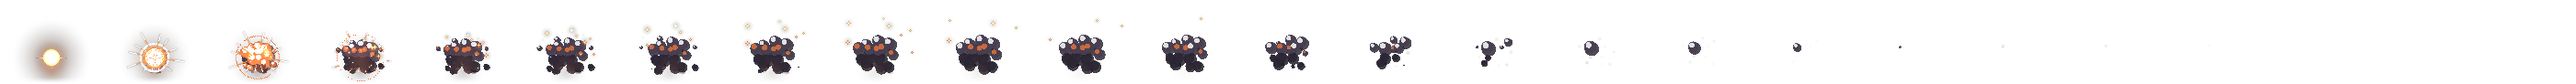
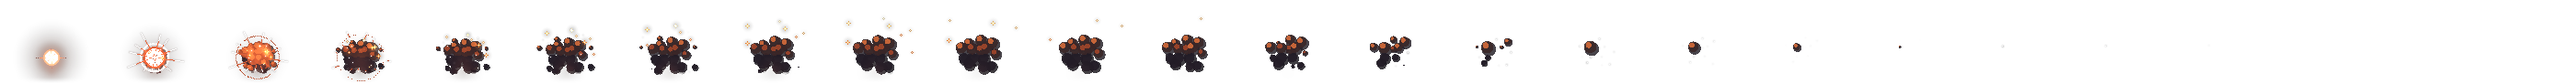
feat: morte do Rei Lodo na versão tinta e brasa (escolha do Victor), bolhas sem brilho branco
Remix do poof do PixelFX em arte/pixelfx/efeitos/poof-tinta.js com a cor do brilho como opção.

Claude-Session: https://claude.ai/code/session_013vLqrTFGaW3XZWyoKxUW4u

diff --git a/arte/pixelfx/efeitos/poof-tinta.js b/arte/pixelfx/efeitos/poof-tinta.js
@@ -1,0 +1,146 @@
+// Remix de spawn/poof do PixelFX (github.com/patch-gg/pixelfx, licença MIT; créditos em ../NOTICE.md).
+// Mudança: o brilho das bolhas usa a opção `highlight` em vez do branco fixo (o Rei Lodo é tinta e brasa).
+// O exportador (../exportar.mjs) copia este arquivo para src/fx/heranca/ do PixelFX antes de renderizar.
+// The soft, top-lit smoke puffs (a body, a denser core, a lit cap) follow Sprite Fusion's open-source explosion
+// (https://www.spritefusion.com/pixel-art-vfx/explosion), MIT License, Copyright (c) 2026 Hugo Duprez.
+import { Particles, Lights, P, Rng, fit, flare, clamp, smooth, ease, TAU, WHITE, hex } from "../../core/index.js";
+
+export const meta = {
+  name: "Poof (tinta e brasa)",
+  desc: "A cartoon death poof: a white pop, a ring of soft round smoke balls bursting out between speed lines, little stars spinning off, and the cloud lifting and thinning away.",
+  tags: ["spawn", "death", "despawn", "smoke", "poof", "cartoon", "one-shot"],
+  size: [112, 92],
+  origin: [56, 80],
+  duration: 1.6,
+  loop: false,
+  fps: 30,
+  bg: "ground",
+  options: {
+    palette: ["#2a2440", "#5e5878", "#9a94b4", "#cdc8e0", "#f2f0fa", "#ffffff"],
+    stars: ["#ffd84a", "#fff3a6", "#ffffff"],
+    seed: 21,
+    highlight: null,
+  },
+};
+
+const CY = -17;
+
+export function create(o) {
+  const C = fit(o.palette, 6), S = fit(o.stars, 3), R = new Rng(o.seed), floor = () => 0;
+  const HL = o.highlight ? hex(o.highlight) : WHITE;   // remix: cor do brilho das bolhas
+  const ps = new Particles({ rng: R, ground: floor, sparks: [WHITE, S[1], S[0], C[2]] }), lights = new Lights();
+  const balls = [], lines = [];
+  // a ring of fat balls round a fat core, thrown out fast and stopped by drag, each swelling as it slows
+  const ring = 9;
+  for (let i = 0; i < ring; i++) {
+    const a = (i / ring) * TAU + R.range(-0.2, 0.2), sp = R.range(95, 140), r = R.range(5, 7);
+    balls.push({ x: Math.cos(a) * 3, y: CY + Math.sin(a) * 3, vx: Math.cos(a) * sp, vy: Math.sin(a) * sp * 0.8 - 12, r0: r * 0.5, r1: r, life: R.range(0.7, 1.05), delay: R.range(0, 0.03) });
+  }
+  for (let i = 0; i < 5; i++) {
+    const a = R.range(0, TAU), sp = R.range(20, 60);
+    balls.push({ x: Math.cos(a) * 2, y: CY + Math.sin(a) * 2, vx: Math.cos(a) * sp, vy: Math.sin(a) * sp - 16, r0: 4, r1: R.range(6.5, 8.5), life: R.range(0.85, 1.2), delay: R.range(0.02, 0.06) });
+  }
+  // a few small puffs flung further out, gone quickly, so the cloud's edge is ragged
+  for (let i = 0; i < 7; i++) {
+    const a = R.range(0, TAU), sp = R.range(170, 240), r = R.range(2.2, 3.6);
+    balls.push({ x: Math.cos(a) * 4, y: CY + Math.sin(a) * 4, vx: Math.cos(a) * sp, vy: Math.sin(a) * sp * 0.75 - 10, r0: r * 0.6, r1: r, life: R.range(0.32, 0.5), delay: R.range(0.01, 0.04) });
+  }
+  for (const b of balls) b.max = b.life;
+  // speed lines between the balls, flicked out and gone in a few frames
+  for (let i = 0; i < 12; i++) {
+    const a = (i / 12) * TAU + R.range(-0.12, 0.12) + 0.13, sa = Math.sin(a);
+    // the ones that point down stop at the floor
+    lines.push({ a, r1: Math.min(R.range(24, 34), sa > 0.1 ? (-2 - CY) / sa : 99), d: R.range(0, 0.04) });
+  }
+  // little stars spun off the pop
+  for (let i = 0; i < 7; i++) {
+    const a = R.range(-Math.PI, 0.3), sp = R.range(70, 125);
+    ps.spawn(P.STAR, Math.cos(a) * 6, CY + Math.sin(a) * 6, Math.cos(a) * sp, Math.sin(a) * sp - 30, R.range(0.55, 0.95), R.pick([S[2], S[1], S[1], S[0]]), R.range(1.3, 2.4), R.range(0.02, 0.1));
+  }
+  for (let i = 0; i < 10; i++) {
+    const a = R.range(0, TAU), sp = R.range(40, 110);
+    ps.spawn(P.STAR, Math.cos(a) * 5, CY + Math.sin(a) * 5, Math.cos(a) * sp, Math.sin(a) * sp - 20, R.range(0.3, 0.6), R.pick([WHITE, S[1]]), 0.6, R.range(0, 0.08));
+  }
+  // the feet go too: a skid of dust along the floor
+  for (let i = 0; i < 6; i++) {
+    const s = R.sign();
+    ps.spawn(P.DUST, s * R.range(1, 6), -1, s * R.range(25, 70), -R.range(2, 10), R.range(0.4, 0.7), C[2], R.range(1.6, 3), R.range(0.02, 0.08));
+  }
+  lights.add(0, CY, 46, C[4], 0.8, 0.4);
+  lights.add(0, CY, 22, WHITE, 0.8, 0.1);
+  let t = 0;
+
+  // a ball swells out, breathes, then shrinks to nothing (a cartoon puff goes out ball by ball, it doesn't fade)
+  const radius = (b) => {
+    const age = b.max - b.life, u = age / b.max;
+    const grow = b.r0 + (b.r1 - b.r0) * ease.outBack(clamp(age / 0.22), 2), breathe = 1 + 0.06 * Math.sin(age * 14 + b.r1);
+    return grow * breathe * (u < 0.62 ? 1 : 1 - ease.inBack(clamp((u - 0.62) / 0.38), 1.4));
+  };
+  const drawBall = (p, b, layer) => {
+    const age = b.max - b.life, r = radius(b), a = Math.min(1, age * 20), lit = age < 0.12;
+    if (r < 0.6) return;
+    // the whole cloud is lit from above: the balls underneath are a step darker
+    const hy = (b.y - CY + 6) / 14, lo = hy > 0.4, hi = hy < -0.3;
+    if (layer === "shade") p.disc(b.x + r * 0.16, b.y + r * 0.2, r, lit ? C[3] : lo ? C[1] : C[2], 0.8 * a);
+    else if (layer === "body") p.disc(b.x - r * 0.06, b.y - r * 0.08, r * 0.86, lit ? C[4] : lo ? C[2] : C[3], 0.88 * a);
+    else if (!lo || lit) {
+      p.disc(b.x - r * 0.28, b.y - r * 0.34, r * 0.42, lit || hi ? HL : C[4], 0.85 * a);
+      if (age < 0.25) p.disc(b.x - r * 0.3, b.y - r * 0.38, r * 0.2, HL, 0.9 * a * (1 - age / 0.25));
+    }
+  };
+
+  return {
+    update(dt) {
+      t += dt;
+      for (let i = balls.length - 1; i >= 0; i--) {
+        const b = balls[i];
+        if (b.delay > 0) {
+          b.delay -= dt;
+          continue;
+        }
+        if ((b.life -= dt) <= 0) {
+          // each ball goes with a pip of light
+          if (b.r1 > 4) ps.spawn(P.STAR, b.x, b.y, 0, -8, 0.22, WHITE, 0.6);
+          balls.splice(i, 1);
+          continue;
+        }
+        // fast burst, hard drag, then a slow lift
+        b.vx -= b.vx * 7 * dt;
+        b.vy -= b.vy * 7 * dt + 30 * dt;
+        b.x += b.vx * dt;
+        b.y = Math.min(b.y + b.vy * dt, -radius(b) * 0.7);
+      }
+      ps.update(dt);
+      lights.update(dt);
+    },
+    drawBack(p) {
+      // a soft shadow where the body stood, and the light of the pop on the floor
+      const s = 1 - smooth(0.1, 0.9, t);
+      if (s > 0) p.glow(0, -1, 26, C[4], 0.25 * s);
+      ps.draw(p, "back");
+    },
+    draw(p) {
+      // the cloud: shade, body, then caps, so neighbouring balls merge into one lumpy cloud
+      const live = balls.filter((b) => b.delay <= 0);
+      for (const layer of ["shade", "body", "cap"]) for (const b of live) drawBall(p, b, layer);
+      // the pop: a white ball and an 8-ray flare for a couple of frames, then a ring
+      if (t < 0.07) {
+        const k = t / 0.07;
+        p.circle(0, CY, 9 + 3 * k, C[4]);
+        p.circle(0, CY, 7 + 3 * k, WHITE);
+        flare(p, 0, CY, 20 * (1 - k * 0.5), 1 - k, C);
+      }
+      const rk = (t - 0.03) / 0.2;
+      if (rk > 0 && rk < 1) p.ring(0, CY, 8 + 18 * ease.outCubic(rk), Math.max(1, 2.5 * (1 - rk)), rk < 0.3 ? WHITE : C[4], 1.1 - rk);
+      for (const l of lines) {
+        const u = (t - l.d) / 0.2;
+        if (u <= 0 || u >= 1) continue;
+        const head = 8 + (l.r1 - 8) * ease.outExpo(clamp(u / 0.6)), tail = 8 + (l.r1 - 8) * ease.inCubic(u), ca = Math.cos(l.a), sa = Math.sin(l.a);
+        p.line(ca * tail, CY + sa * tail, ca * head, CY + sa * head, (v) => (v > 0.6 ? WHITE : C[4]));
+        p.glowLine(ca * tail, CY + sa * tail, ca * head, CY + sa * head, 3, C[4], 0.25);
+      }
+      ps.draw(p, "front");
+      lights.draw(p);
+    },
+  };
+}

diff --git a/public/vfxPixelfx.js b/public/vfxPixelfx.js
@@ -1,3 +1,3 @@
 // GERADO por arte/pixelfx/exportar.mjs: não edite à mão.
 // Efeitos do PixelFX (github.com/patch-gg/pixelfx, licença MIT; créditos em arte/pixelfx/NOTICE.md).
-export const VFX_PIXELFX = {"rei_lodo_puf":{"arquivo":"assets/vfx/rei_lodo_puf.png","quadros":25,"quadro":[112,92],"ancora":[56,80],"ms":67,"px":2,"pixelfx":"spawn/poof"},"rei_lodo_poca":{"arquivo":"assets/vfx/rei_lodo_poca.png","quadros":37,"quadro":[184,116],"ancora":[92,100],"ms":67,"px":2,"pixelfx":"nature/acid-splash"}};
+export const VFX_PIXELFX = {"rei_lodo_puf":{"arquivo":"assets/vfx/rei_lodo_puf.png","quadros":25,"quadro":[112,92],"ancora":[56,80],"ms":67,"px":2,"pixelfx":"heranca/poof-tinta"},"rei_lodo_poca":{"arquivo":"assets/vfx/rei_lodo_poca.png","quadros":37,"quadro":[184,116],"ancora":[92,100],"ms":67,"px":2,"pixelfx":"nature/acid-splash"}};
